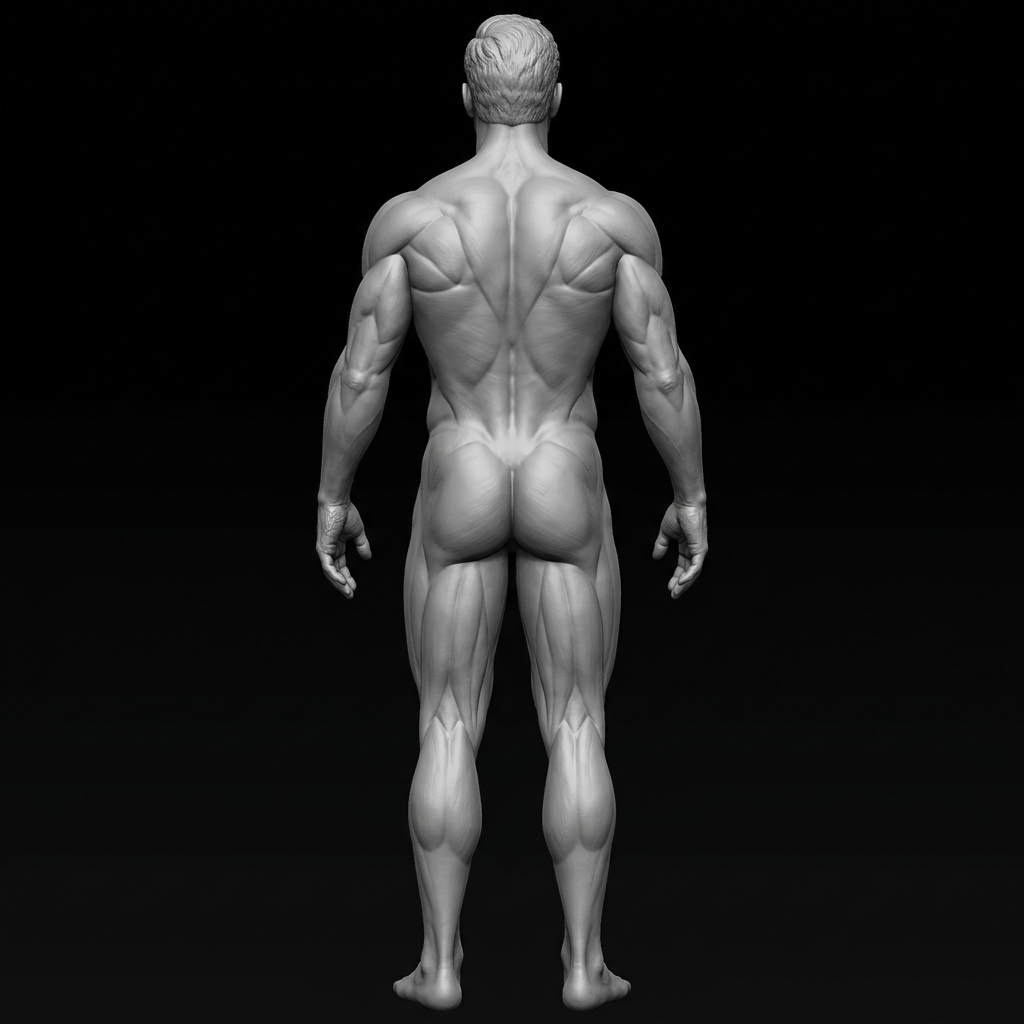
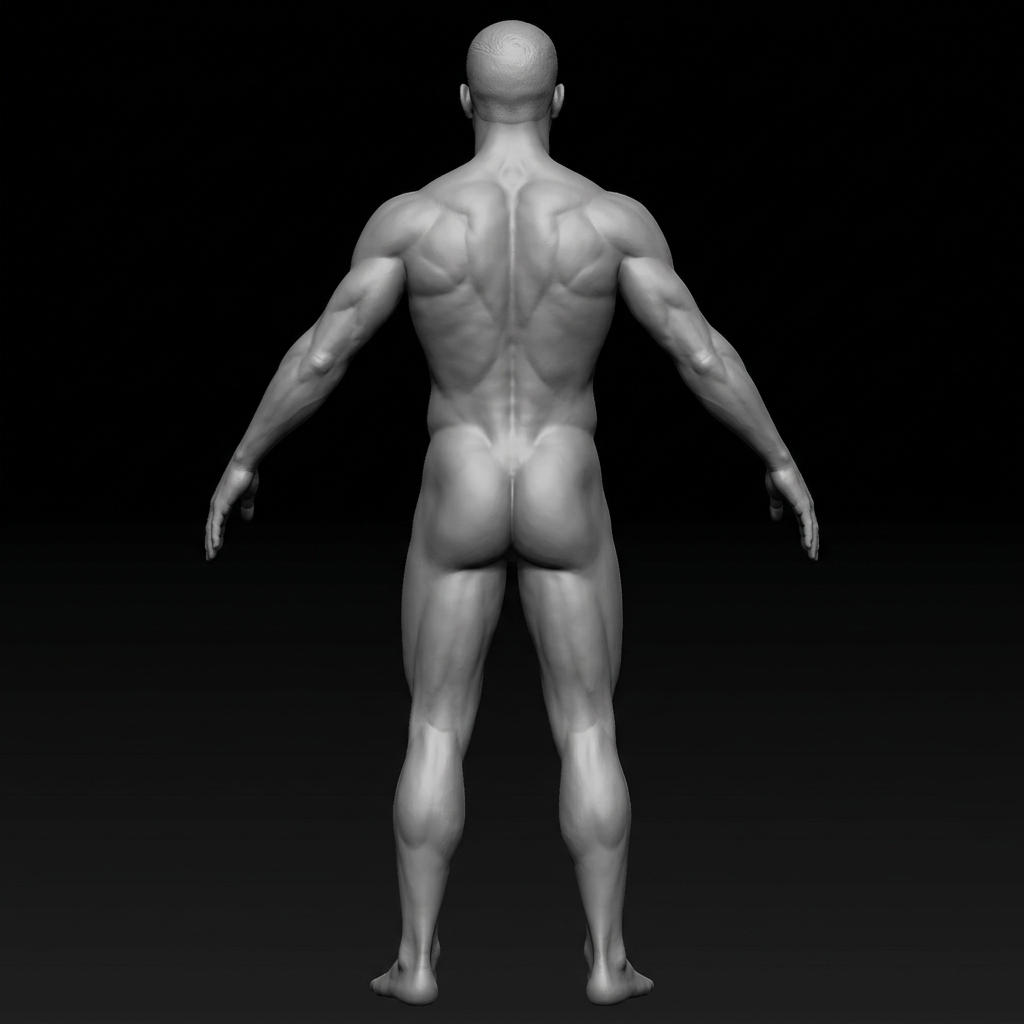
Align realistic 3D muscle renders in A-pose with SVG highlight paths

diff --git a/src/features/exerciseVisuals.tsx b/src/features/exerciseVisuals.tsx
@@ -393,11 +393,11 @@ function BodyOutline({ offsetX, label }: { offsetX: number; label: string }) {
       {/* 3D realistic mannequin render background */}
       <image
         href={isFront ? "/images/body-front.png" : "/images/body-back.png"}
-        x={offsetX + 8}
-        y={5}
-        width={94}
-        height={215}
-        preserveAspectRatio="xMidYMid slice"
+        x={offsetX + 1}
+        y={3}
+        width={108}
+        height={224}
+        preserveAspectRatio="none"
         className="body-mannequin-image"
       />
     </g>
